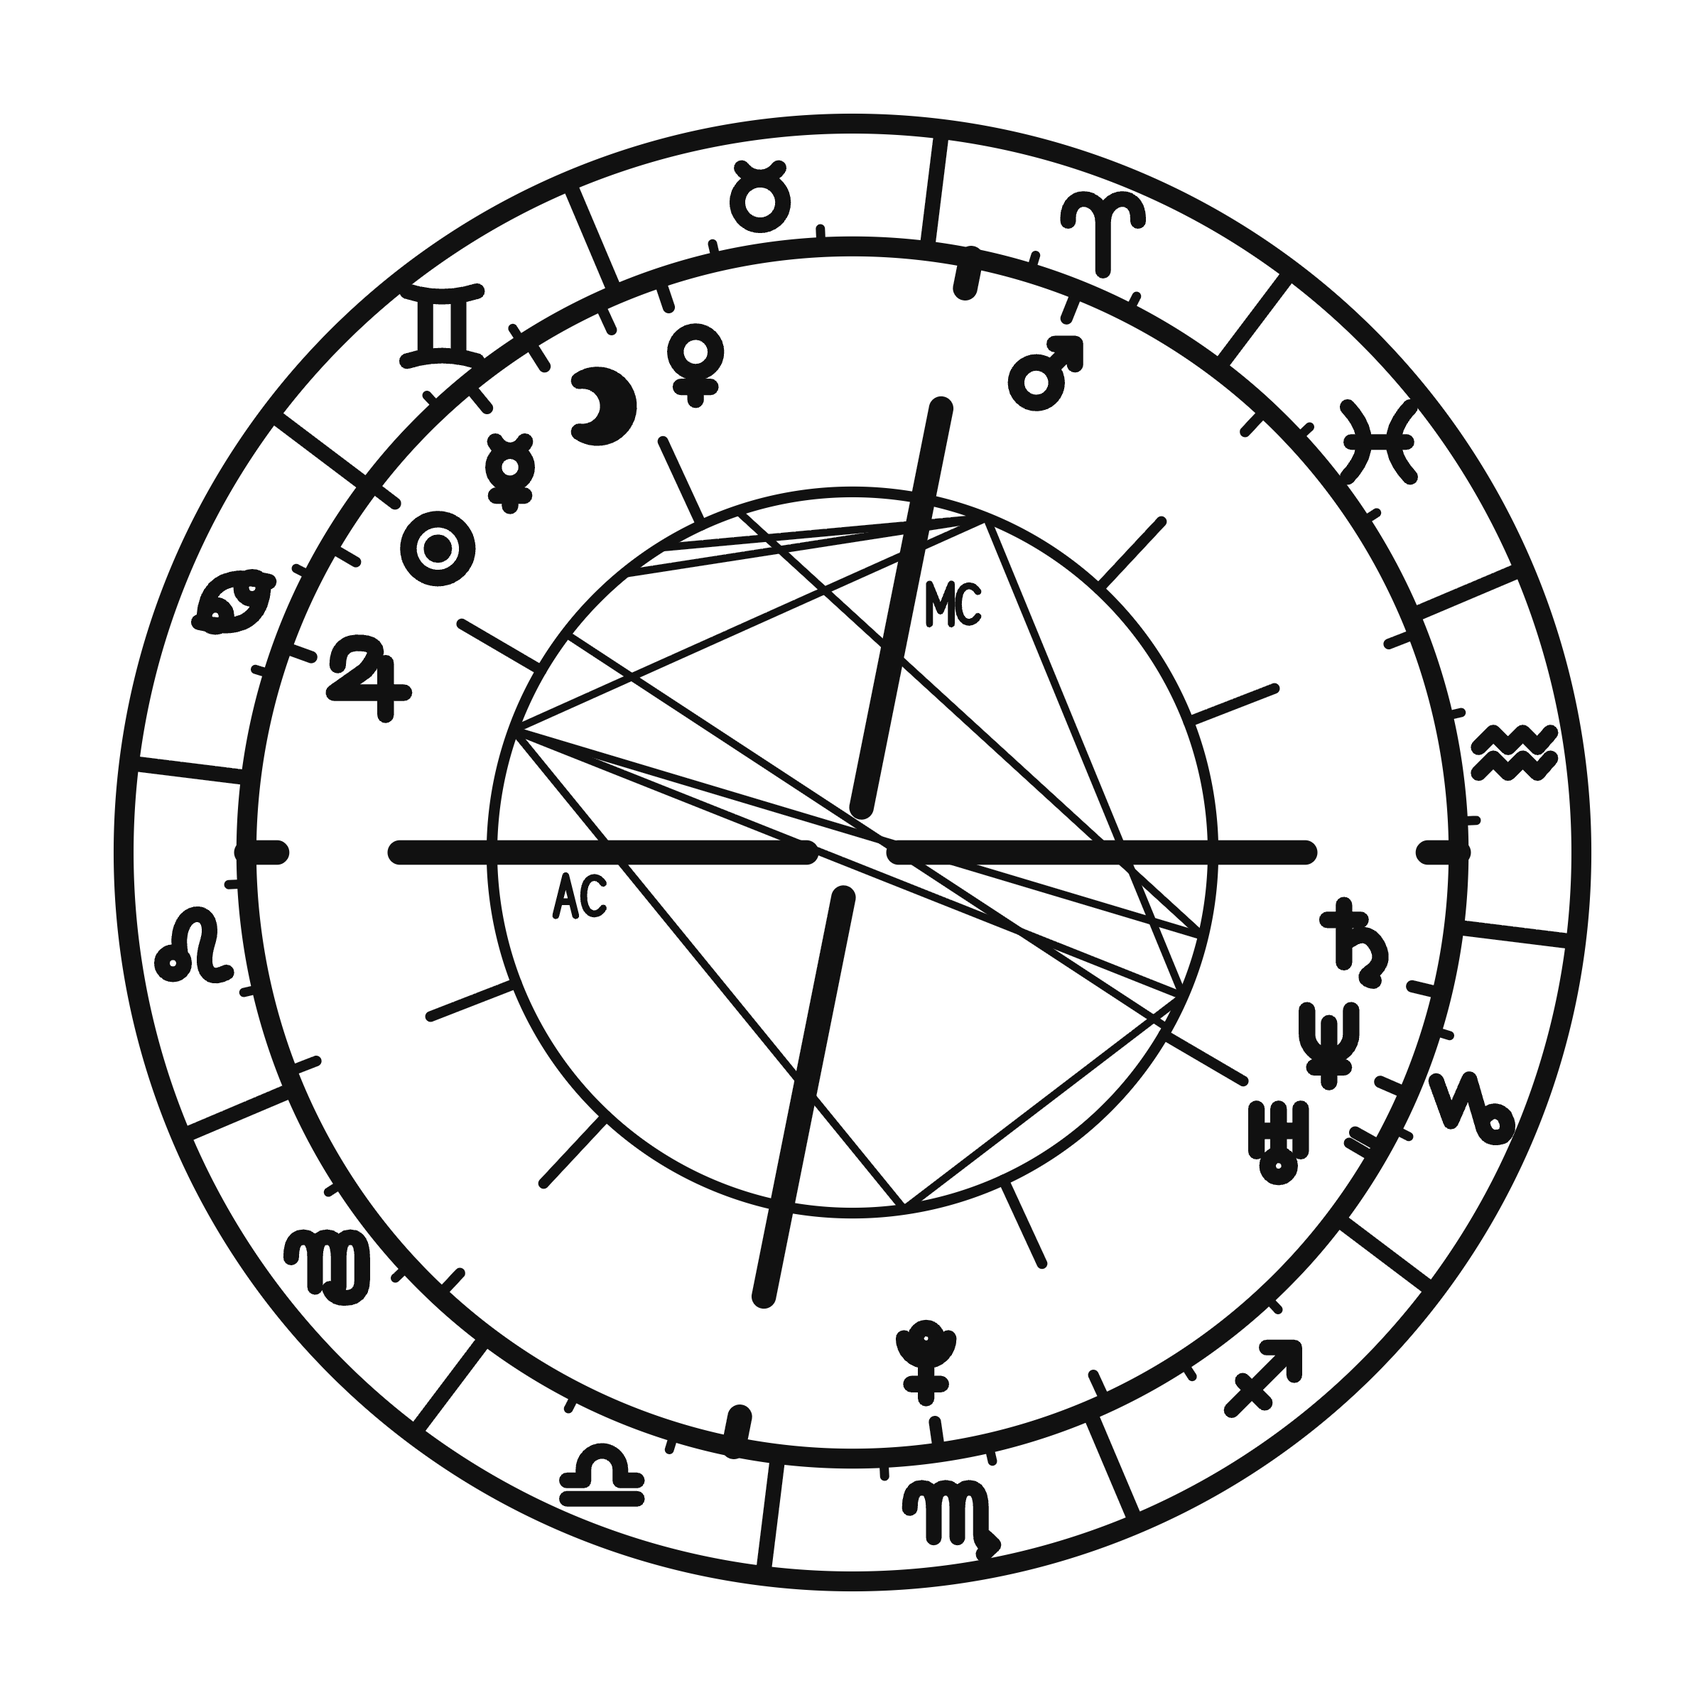
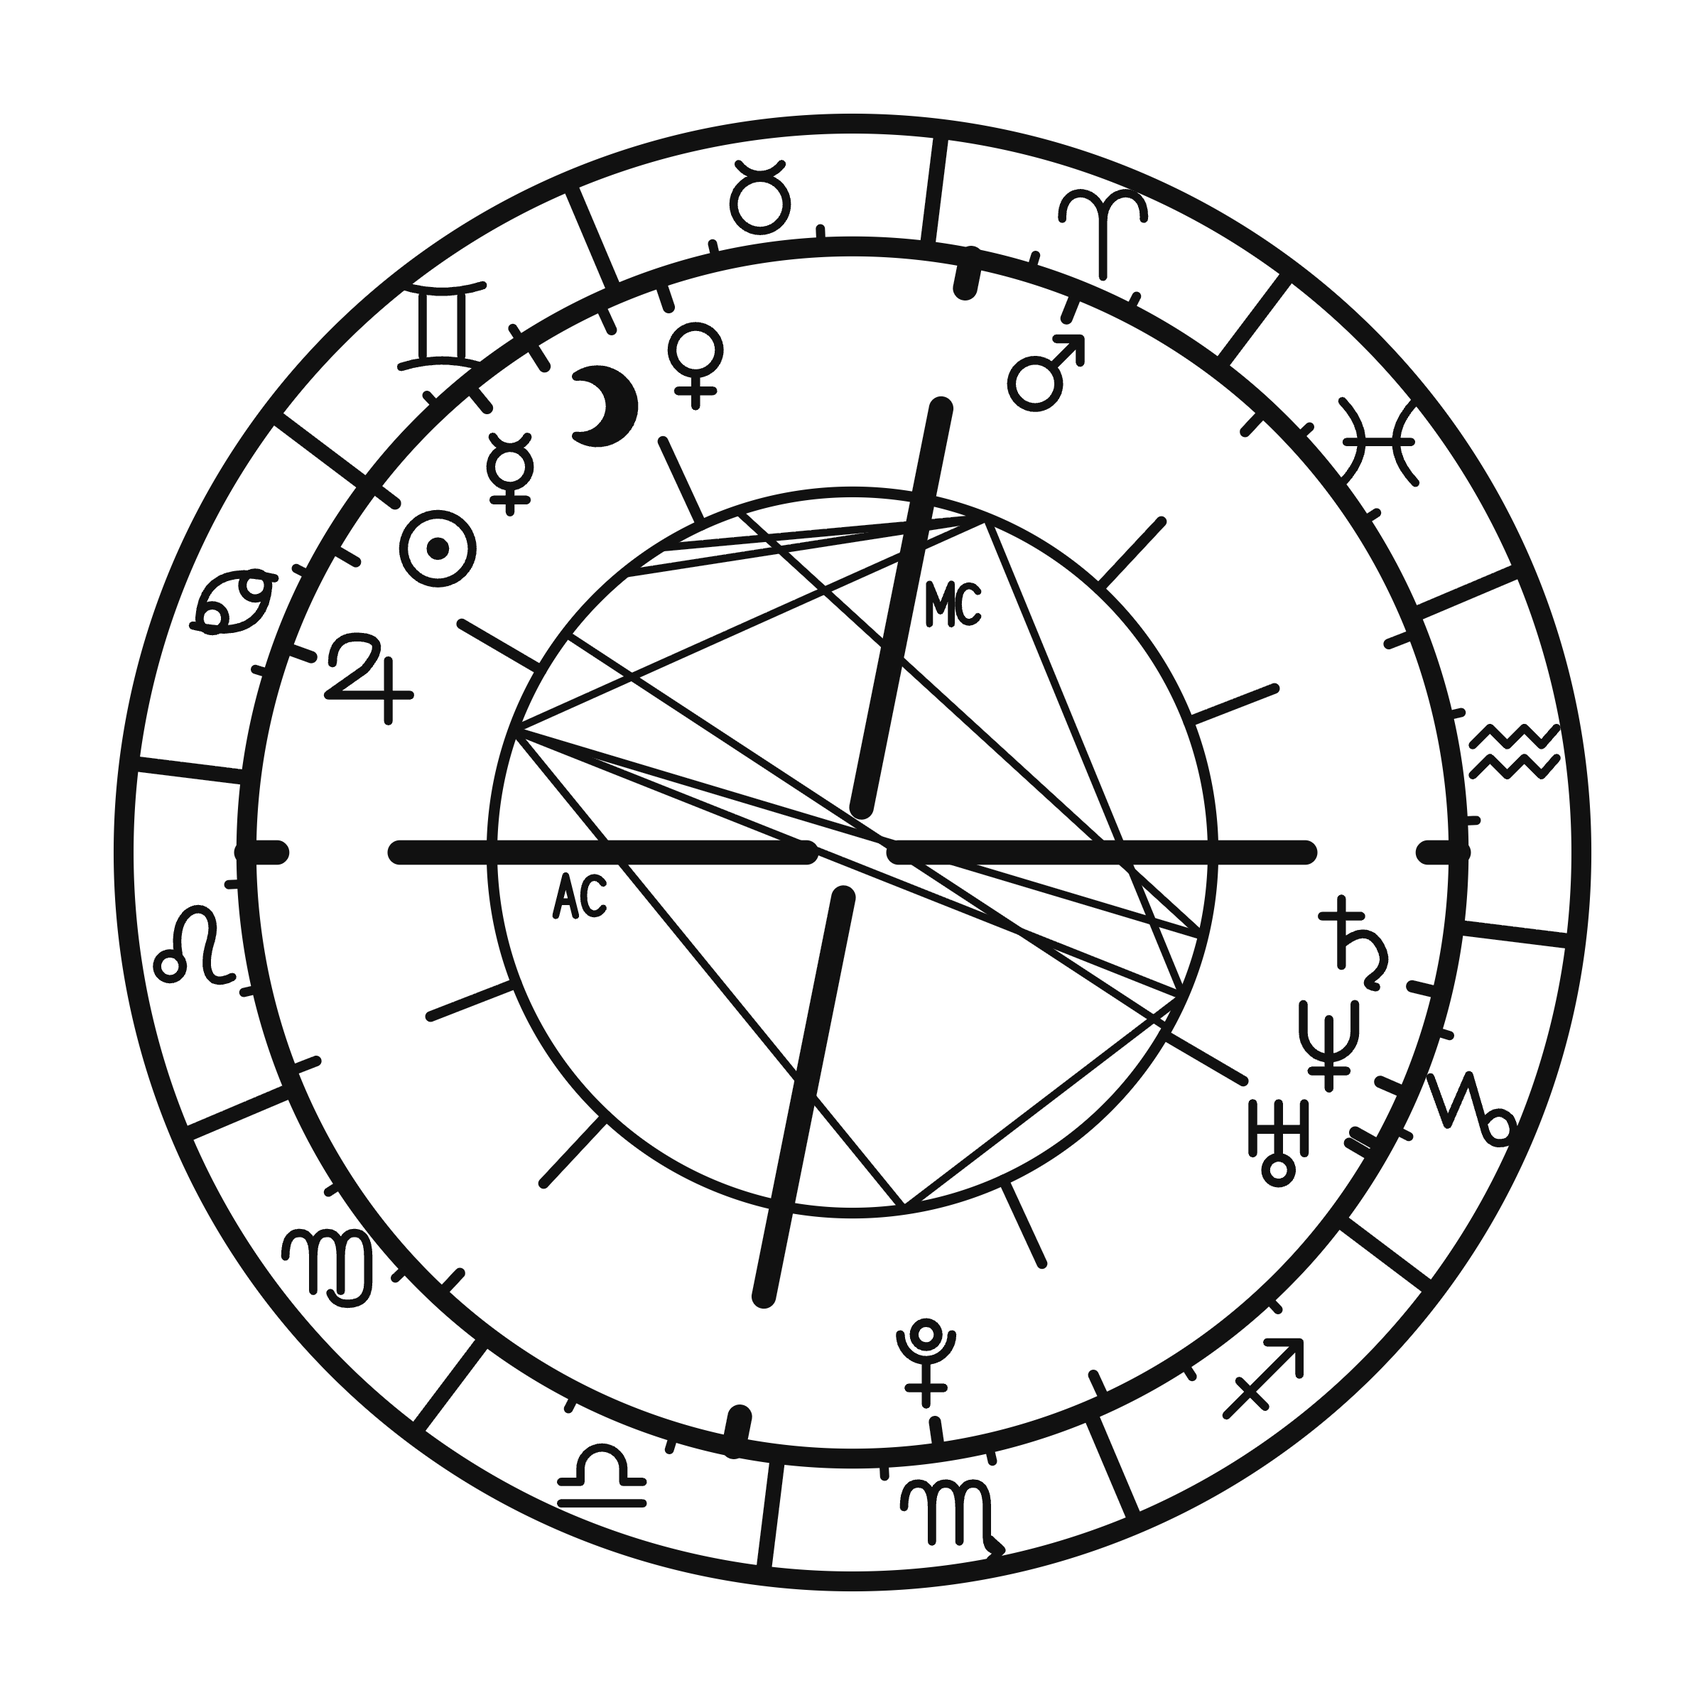
Thin-line natal wheel, hand tattoos along the index finger, exact calf wheel and inner-forearm line

diff --git a/index.html b/index.html
@@ -709,8 +709,8 @@ const CONFIG={
   gallery:[
     {src:"media/gallery/hands-sun-rising.jpg",wide:true,concept:true,caption:"☉ Gemini and ↑ Leo · backs of the hands",captionPt:"☉ Gêmeos e ↑ Leão · costas das mãos",
      alt:"Two people holding hands; his hand has the Sun and Gemini symbols, hers the ascendant arrow and Leo",altPt:"Duas pessoas de mãos dadas; na mão dele o Sol e Gêmeos, na dela a seta do ascendente e Leão"},
-    {src:"media/gallery/wheel-forearm-woman.jpg",concept:true,caption:"Natal wheel · inner forearm",captionPt:"Roda natal · parte interna do antebraço",
-     alt:"A natal wheel tattoo on a woman's inner forearm",altPt:"Tatuagem de roda natal na parte interna do antebraço de uma mulher"},
+    {src:"media/gallery/line-forearm-woman.jpg",wide:true,concept:true,caption:"Sun and Rising in one line · inner forearm",captionPt:"Sol e Ascendente numa linha · parte interna do antebraço",
+     alt:"A row of four astrological symbols along a woman's inner forearm, above the wrist",altPt:"Uma linha de quatro símbolos astrológicos ao longo da parte interna do antebraço de uma mulher, acima do pulso"},
     {src:"media/gallery/wheel-calf-man.jpg",concept:true,caption:"Natal wheel · calf",captionPt:"Roda natal · panturrilha",
      alt:"A natal wheel tattoo on the back of a man's calf",altPt:"Tatuagem de roda natal na panturrilha de um homem"},
     {src:"media/gallery/line-neck-woman.jpg",concept:true,caption:"Sun and Rising in one line · back of the neck",captionPt:"Sol e Ascendente numa linha · nuca",
@@ -1835,6 +1835,7 @@ function computeChart(utcMs,lat,lon,hasTime){
 
 /* ═══ THE WHEEL — drawn, then sampled into stars ══════════════ */
 function drawWheel(ctx,S,ch,fine=1){   /* fine<1 thins the glyph strokes for print sizes */
+  const gs=S*(fine<.5?.028:.024);   /* the thin tattoo line reads better a touch larger */
   const c=S/2, R1=S*.475, R2=S*.395, Rp=S*.335, Rp2=S*.285, Ra=S*.235;
   const asc=ch.houses?ch.houses.asc:0;
   const pos=(l,r)=>{const a=Math.PI+(l-asc)*D2R;return [c+r*Math.cos(a),c-r*Math.sin(a)];};
@@ -1846,7 +1847,7 @@ function drawWheel(ctx,S,ch,fine=1){   /* fine<1 thins the glyph strokes for pri
   ctx.lineWidth=S*.007;ctx.beginPath();ctx.arc(c,c,Ra,0,7);ctx.stroke();
   /* zodiac band: sign divisions, glyphs, 10° ticks */
   ctx.lineWidth=S*.010;
-  for(let i=0;i<12;i++){line(pos(i*30,R2),pos(i*30,R1));glyphSign(ctx,i,...pos(i*30+15,(R1+R2)/2),S*.024,S*.017*fine);}
+  for(let i=0;i<12;i++){line(pos(i*30,R2),pos(i*30,R1));glyphSign(ctx,i,...pos(i*30+15,(R1+R2)/2),gs,S*.017*fine);}
   ctx.lineWidth=S*.006;
   for(let d=0;d<360;d+=10)if(d%30)line(pos(d,R2),pos(d,R2+S*.012));
   /* houses */
@@ -1871,7 +1872,7 @@ function drawWheel(ctx,S,ch,fine=1){   /* fine<1 thins the glyph strokes for pri
   for(let i=0;i<n;i++){
     const b=sorted[i],d=disp[i];
     ctx.lineWidth=S*.008;line(pos(b.lon,R2),pos(b.lon,R2-S*.02));
-    glyphPlanet(ctx,b.i,...pos(d,Rp),S*.024,S*.018*fine);
+    glyphPlanet(ctx,b.i,...pos(d,Rp),gs,S*.018*fine);
   }
   /* aspects */
   ctx.lineWidth=S*.005;
@@ -2333,6 +2334,7 @@ function glyphAsc(ctx,x,y,s,lw){   /* the ascendant: an arrow rising from the ho
   ctx.beginPath();ctx.moveTo(-.78,.82);ctx.lineTo(.78,.82);ctx.moveTo(0,.82);ctx.lineTo(0,-.9);
   ctx.moveTo(-.4,-.5);ctx.lineTo(0,-.92);ctx.lineTo(.4,-.5);ctx.stroke();ctx.restore();
 }
+const WHEEL_INK=.32;  /* glyph weight of the tattoo wheel: fine line, like the house lines */
 const PAIR_LW=.075;   /* stroke of the sign designs, as a share of their height — bold enough to read small on skin */
 function drawSunPair(ctx,W,H,sign){glyphPlanet(ctx,0,W*.29,H/2,H*.34,H*PAIR_LW);glyphSign(ctx,sign,W*.69,H/2,H*.36,H*PAIR_LW);}
 function drawRisingPair(ctx,W,H,sign){glyphAsc(ctx,W*.29,H/2,H*.36,H*PAIR_LW);glyphSign(ctx,sign,W*.69,H/2,H*.36,H*PAIR_LW);}
@@ -2361,7 +2363,7 @@ const slug=t=>fold(t).replace(/[^a-z0-9]+/g,'-').replace(/^-|-$/g,'');
 function inkDesigns(){
   const sun=chart.bodies[0],H=chart.houses,ss=SIGNS[sun.sign],from=T('from','a partir de');
   const list=[
-    {kind:'wheel',w:1,h:1,draw:(c,W)=>drawWheel(c,W,chart,.6),title:T('Your natal wheel','A sua roda natal'),file:'natal-wheel',size:10,
+    {kind:'wheel',w:1,h:1,draw:(c,W)=>drawWheel(c,W,chart,WHEEL_INK),title:T('Your natal wheel','A sua roda natal'),file:'natal-wheel',size:10,
      place:T('upper back, forearm, thigh','costas, antebraço, coxa'),intro:T('The whole sky of your birth, as one piece.','O céu inteiro do seu nascimento, numa só peça.')},
     {kind:'sun',w:2,h:1,draw:(c,W,h)=>drawSunPair(c,W,h,sun.sign),title:T(`Sun in ${ss.name}`,`Sol em ${ss.name}`),file:`sun-${slug(ss.name)}`,size:3,
      place:T('wrist, ankle, behind the ear','pulso, tornozelo, atrás da orelha'),intro:T('☉ — the circle with its centre — beside the sign the Sun stood in.','☉ — o círculo com o seu centro — ao lado do signo onde o Sol estava.')}];
@@ -2513,7 +2515,7 @@ function renderShowcase(){
   if(showcaseDone)return;showcaseDone=true;
   const ch=computeChart(Date.UTC(1990,5,21,8,15),38.72,-9.14,true),nums=[8,6,5,3];
   const sun=ch.bodies[0].sign,asc=signOf(ch.houses.asc);
-  const items=[[1,(c,W)=>drawWheel(c,W,ch,.6),T('Natal wheel','Roda natal')],
+  const items=[[1,(c,W)=>drawWheel(c,W,ch,WHEEL_INK),T('Natal wheel','Roda natal')],
     [2,(c,W,H)=>drawSunPair(c,W,H,sun),T('☉ + your Sun sign','☉ + o seu signo solar')],
     [2,(c,W,H)=>drawRisingPair(c,W,H,asc),T('↑ + your Rising sign','↑ + o seu ascendente')],
     [4,(c,W,H)=>drawSkyRow(c,W,H,sun,asc),T('Both, in one line','Os dois, numa linha')],

diff --git a/tools/higgsfield/tattoos.ts b/tools/higgsfield/tattoos.ts
@@ -38,6 +38,14 @@ const SHOTS: Shot[] = [
     prompt: `The back of a man's neck and upper shoulders, head slightly bowed, short hair, smooth even skin on the back of the neck with plenty of bare skin, viewed straight on from behind. No tattoos, no jewellery, clean bare skin. ${STUDIO}` },
   { id: "neck-plate-woman", refs: [], aspect: "3:4",
     prompt: `Portrait of a woman seen from behind, hair gathered up in a low bun, wearing an elegant black silk dress with a low scooped back, the nape of her neck and upper back clearly visible, viewed straight on. No tattoos, no jewellery. ${STUDIO}` },
+  { id: "forearm-plate-man", refs: [], aspect: "3:2",
+    prompt: `A man's inner forearm, arm extended horizontally across the frame from left (elbow) to right (wrist), palm facing up, resting on a pale stone plinth, a rolled-up white linen shirt sleeve at the elbow, smooth even skin on the inner forearm clearly visible. No tattoos, no jewellery, no watch. ${STUDIO}` },
+  { id: "forearm-plate-woman", refs: [], aspect: "3:2",
+    prompt: `A woman's inner forearm, arm extended horizontally across the frame from left (elbow) to right (wrist), palm facing up, resting on a pale stone plinth, a pushed-up oatmeal knit sleeve at the elbow, smooth even skin on the inner forearm clearly visible. No tattoos, no jewellery, no watch. ${STUDIO}` },
+  { id: "thigh-plate-woman", refs: [], aspect: "3:4",
+    prompt: `A woman seated on a pale stone plinth, seen from the front, one leg forward, the front of her thigh clearly visible from knee to hip, wearing black high-waisted tailored shorts, smooth even skin on the front of the thigh. No tattoos, no jewellery. ${STUDIO}` },
+  { id: "calf-plate-man", refs: [], aspect: "3:4",
+    prompt: `A man's lower leg seen straight from behind, standing on a pale stone plinth, the back of his calf clearly visible from the back of the knee to the ankle, neutral linen shorts just visible at the top, smooth skin with light natural hair. No tattoos, no jewellery, no socks. ${STUDIO}` },
   { id: "wheel-calf-man", refs: ["design-1-natal-wheel.png"], aspect: "3:4",
     prompt: `${TATTOO} A man's lower leg seen from behind and slightly to the side, the round natal-wheel tattoo about 12 cm wide on the back of his calf, standing on a plinth, bare leg, neutral linen shorts just visible. ${STUDIO}` },
   { id: "wheel-forearm-woman", refs: ["design-1-natal-wheel.png"], aspect: "3:4",
@@ -61,7 +69,7 @@ async function generate(shot: Shot, n: number): Promise<Outcome> {
       withPolling: true,
     });
     const status = r.status as string, url = r.images?.[0]?.url;
-    if (status !== "completed" || !url) return { id: shot.id, n, status, request: r.request_id };
+    if (status !== "completed" || !url) { console.error(shot.id, JSON.stringify(r).slice(0, 600)); return { id: shot.id, n, status, request: r.request_id }; }
     const img = await fetch(url);
     const ext = (img.headers.get("content-type") || "").includes("jpeg") ? "jpg" : "png";
     const file = `${shot.id}-v${n}.${ext}`;

diff --git a/tools/higgsfield/composite-hands.py b/tools/higgsfield/composite-hands.py
@@ -2,8 +2,10 @@
 
    python3 tools/higgsfield/composite-hands.py
 
-Each design is cropped, scaled to ~3 cm on the hand, rotated to run along the index finger,
-and multiplied into the skin with a slightly soft edge, the way healed fine-line ink looks.
+Each pair is restacked upright — the sign by the knuckle, ☉ or ↑ by the wrist — scaled to ~3 cm,
+and turned so the stack points the way the index finger points (the ascendant arrow points where
+the finger points). The ink is multiplied into the skin with a slightly soft edge, the way healed
+fine-line ink looks. The stacked layouts are also saved as the *-along.png design files.
 Positions and angles are measured on hands-plate-v10.png (2496 x 1664)."""
 from pathlib import Path
 from PIL import Image, ImageFilter, ImageChops
@@ -13,22 +15,41 @@ RAW = ROOT / "media/gallery/raw"
 DES = ROOT / "media/designs"
 PLATE = RAW / "hands-plate-v10.png"
 
-# design file, centre (x, y), length in px (~3 cm on that hand), rotation in degrees (counter-clockwise)
+# design file, centre (x, y), length of the stack in px (~3 cm on that hand), direction of the index finger
+# in degrees (counter-clockwise from pointing right); measured on the plate
 PLACES = [
-    ("design-2-sun-gemini.png", (700, 845), 250, 30),     # his right hand: ☉ by the wrist, ♊ towards the index finger
-    ("design-3-rising-leo.png", (1765, 985), 225, -30),   # her left hand: along her index finger
+    ("design-2-sun-gemini.png", (835, 700), 270, 28),     # his right hand, finger points up-right
+    ("design-3-rising-leo.png", (1760, 880), 245, 152),   # her left hand, finger points up-left
 ]
 INK = (26, 28, 34)        # blue-black, the colour healed black ink settles to
 STRENGTH = 1.6            # how far the ink darkens the skin under it (lower = darker)
 OPACITY = 0.92
 
-def ink_layer(path, length, angle):
-    d = Image.open(path).convert("RGBA")
-    a = d.getchannel("A")
-    d = d.crop(a.getbbox())
-    h = round(d.height * length / d.width)
-    a = d.getchannel("A").resize((length, h), Image.LANCZOS)
-    a = a.rotate(angle, resample=Image.BICUBIC, expand=True)
+def stack_upright(path):
+    """The pair drawn side by side → the same two symbols, upright, the second above the first."""
+    a = Image.open(path).convert("RGBA").getchannel("A")
+    a = a.crop(a.getbbox())
+    cols = [any(a.getpixel((x, y)) > 40 for y in range(0, a.height, 2)) for x in range(a.width)]
+    mid = a.width // 2                                   # widest empty run near the middle splits the pair
+    gaps = [x for x in range(a.width // 4, 3 * a.width // 4) if not cols[x]]
+    if gaps:
+        mid = min(gaps, key=lambda x: abs(x - a.width // 2))
+    first, second = (g.crop(g.getbbox()) for g in (a.crop((0, 0, mid, a.height)), a.crop((mid, 0, a.width, a.height))))
+    gap = round(max(first.height, second.height) * .32)
+    w = max(first.width, second.width)
+    out = Image.new("L", (w, first.height + gap + second.height), 0)
+    out.paste(second, ((w - second.width) // 2, 0))
+    out.paste(first, ((w - first.width) // 2, second.height + gap))
+    return out
+
+def ink_layer(path, length, direction):
+    a = stack_upright(path)
+    along = Image.new("RGBA", (a.width + 200, a.height + 200), (0, 0, 0, 0))
+    along.paste(Image.new("RGBA", a.size, (20, 20, 20, 255)), (100, 100), a)
+    along.save(path.with_name(path.stem + "-along.png"))
+    w = round(a.width * length / a.height)
+    a = a.resize((w, length), Image.LANCZOS)
+    a = a.rotate(direction - 90, resample=Image.BICUBIC, expand=True)   # the stack's top points along the finger
     a = a.filter(ImageFilter.GaussianBlur(0.9))                       # healed, slightly soft edge
     noise = Image.effect_noise(a.size, 22).filter(ImageFilter.GaussianBlur(1.2))
     a = ImageChops.multiply(a, noise.point(lambda v: 205 + v * 50 // 255))
@@ -36,8 +57,8 @@ def ink_layer(path, length, angle):
 
 base = Image.open(PLATE).convert("RGB")
 tint = tuple(min(255, round(c * STRENGTH)) for c in INK)
-for f, (cx, cy), length, angle in PLACES:
-    a = ink_layer(DES / f, length, angle).point(lambda v: round(v * OPACITY))
+for f, (cx, cy), length, direction in PLACES:
+    a = ink_layer(DES / f, length, direction).point(lambda v: round(v * OPACITY))
     x, y = cx - a.width // 2, cy - a.height // 2
     region = base.crop((x, y, x + a.width, y + a.height))
     inked = ImageChops.multiply(region, Image.new("RGB", a.size, tint))   # multiply keeps the skin texture under the ink

diff --git a/tools/higgsfield/composite-wheel-forearm.py b/tools/higgsfield/composite-wheel-forearm.py
@@ -1,0 +1,49 @@
+"""The exact natal wheel on the man's calf and the one-line design on the woman's inner forearm.
+
+   python3 tools/higgsfield/composite-wheel-forearm.py
+
+Plates (in media/gallery/raw, git-ignored):
+  calf-plate-man-clean.png       wheel-calf-man-v1.png with the AI-drawn wheel inpainted away
+  wheel-forearm-woman-v1.png     cropped below its AI wheel, where the forearm is bare
+Same ink model as composite-hands.py: the design's alpha, softened, multiplied into the skin."""
+from pathlib import Path
+from PIL import Image, ImageFilter, ImageChops
+
+ROOT = Path(__file__).resolve().parents[2]
+RAW = ROOT / "media/gallery/raw"
+DES = ROOT / "media/designs"
+
+# plate, crop box (or None), design, output, centre (x, y) in the plate, width px, x-squash for the
+# curve of the limb, rotation in degrees (counter-clockwise)
+JOBS = [
+    ("calf-plate-man-clean.png", None, "design-1-natal-wheel.png", "wheel-calf-composite-man.png",
+     (918, 1040), 560, .93, -2),
+    ("wheel-forearm-woman-v1.png", (0, 1450, 1362, 2368), "design-4-sun-and-rising-gemini-leo.png",
+     "line-forearm-composite-woman.png", (650, 1705), 340, 1, 43),
+]
+INK = (26, 28, 34)
+STRENGTH = 1.6
+OPACITY = 0.92
+
+def ink_layer(path, width, squash, angle):
+    a = Image.open(path).convert("RGBA").getchannel("A")
+    a = a.crop(a.getbbox())
+    h = round(a.height * width / a.width)
+    a = a.resize((round(width * squash), h), Image.LANCZOS)
+    a = a.rotate(angle, resample=Image.BICUBIC, expand=True)
+    a = a.filter(ImageFilter.GaussianBlur(0.9))
+    noise = Image.effect_noise(a.size, 22).filter(ImageFilter.GaussianBlur(1.2))
+    return ImageChops.multiply(a, noise.point(lambda v: 205 + v * 50 // 255))
+
+tint = tuple(min(255, round(c * STRENGTH)) for c in INK)
+for plate, crop, design, out, (cx, cy), width, squash, angle in JOBS:
+    base = Image.open(RAW / plate).convert("RGB")
+    a = ink_layer(DES / design, width, squash, angle).point(lambda v: round(v * OPACITY))
+    x, y = cx - a.width // 2, cy - a.height // 2
+    region = base.crop((x, y, x + a.width, y + a.height))
+    inked = ImageChops.multiply(region, Image.new("RGB", a.size, tint))
+    base.paste(Image.composite(inked, region, a), (x, y))
+    if crop:
+        base = base.crop(crop)
+    base.save(RAW / out)
+    print(RAW / out)

diff --git a/docs/MEDIA.md b/docs/MEDIA.md
@@ -43,7 +43,12 @@ script, and the ink is multiplied into the skin so its texture shows through.
 The neck line goes the same way (`neck-plate-man`, then `python3 tools/higgsfield/composite-neck.py`),
 because the model keeps redrawing the ascendant ↑ as ♐. The woman's bare-back plate is refused by
 the moderation filter, so her plate is an earlier tattoo render with the AI tattoo patched out
-(`neck-plate-woman-clean.png`, a skin patch from just below, blended with OpenCV `seamlessClone`). `npm run example` is the
+(`neck-plate-woman-clean.png`, a skin patch from just below, blended with OpenCV `seamlessClone`).
+The calf wheel and the woman's inner-forearm line come from earlier renders too
+(`python3 tools/higgsfield/composite-wheel-forearm.py`): the AI wheel inpainted off the calf, and the
+forearm render cropped below its wheel. Still to shoot once credits are topped up: the wheel on a
+woman's front thigh (`thigh-plate-woman`) and the line on a man's inner forearm (`forearm-plate-man`),
+then composite them the same way. `npm run example` is the
 Seedance 2.5 setup check. Every generation is billed to your Higgsfield credits.
 
 ## Prompts (for the Higgsfield website)
